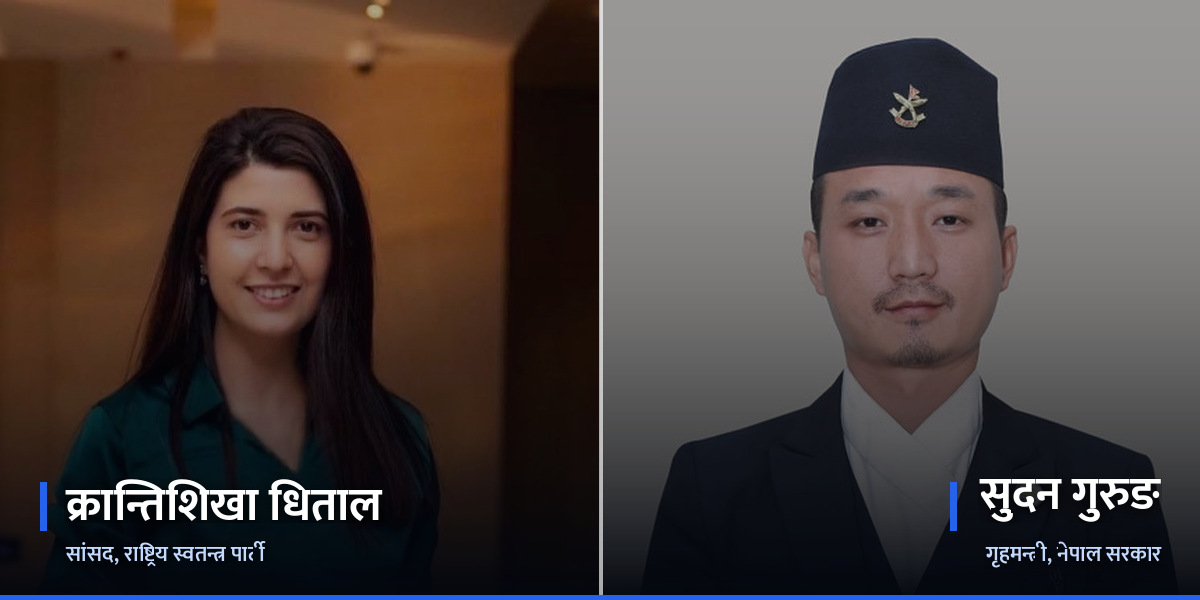
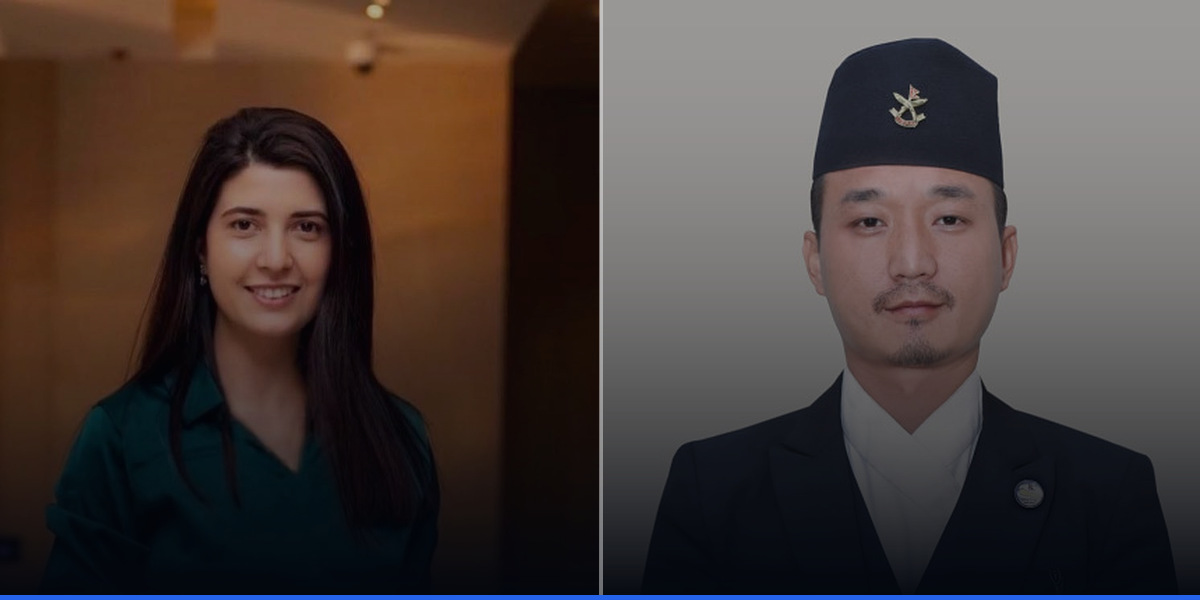
Fix clean variant: keep it free of captions

diff --git a/work/build_card.py b/work/build_card.py
@@ -100,6 +100,8 @@ def build():
     d.rectangle([HALF - 1, 0, HALF + 2, H], fill=(255, 255, 255, 105))
     d.rectangle([0, H - 5, W, H], fill=ACCENT + (255,))
 
+    clean = canvas.copy()          # caption-free plate for custom headlines
+
     name_f = ShapedFont(BOLD, NAME_SIZE)
     role_f = ShapedFont(SEMI, ROLE_SIZE)
 
@@ -143,14 +145,9 @@ def build():
             canvas.paste(Image.new("RGB", mask.size, color),
                          (int(round(x)), int(round(y))), mask)
 
-    clean = canvas.copy()
-
     canvas.save(os.path.join(OUT, "krantishikha-dhital-sudan-gurung-1200x600.png"))
     canvas.save(os.path.join(OUT, "krantishikha-dhital-sudan-gurung-1200x600.jpg"),
                 quality=93, subsampling=0)
-    e = ImageDraw.Draw(clean, "RGBA")
-    e.rectangle([HALF - 1, 0, HALF + 2, H], fill=(255, 255, 255, 105))
-    e.rectangle([0, H - 5, W, H], fill=ACCENT + (255,))
     clean.save(os.path.join(OUT, "krantishikha-dhital-sudan-gurung-1200x600-clean.jpg"),
                quality=93, subsampling=0)
     print("done", canvas.size)
